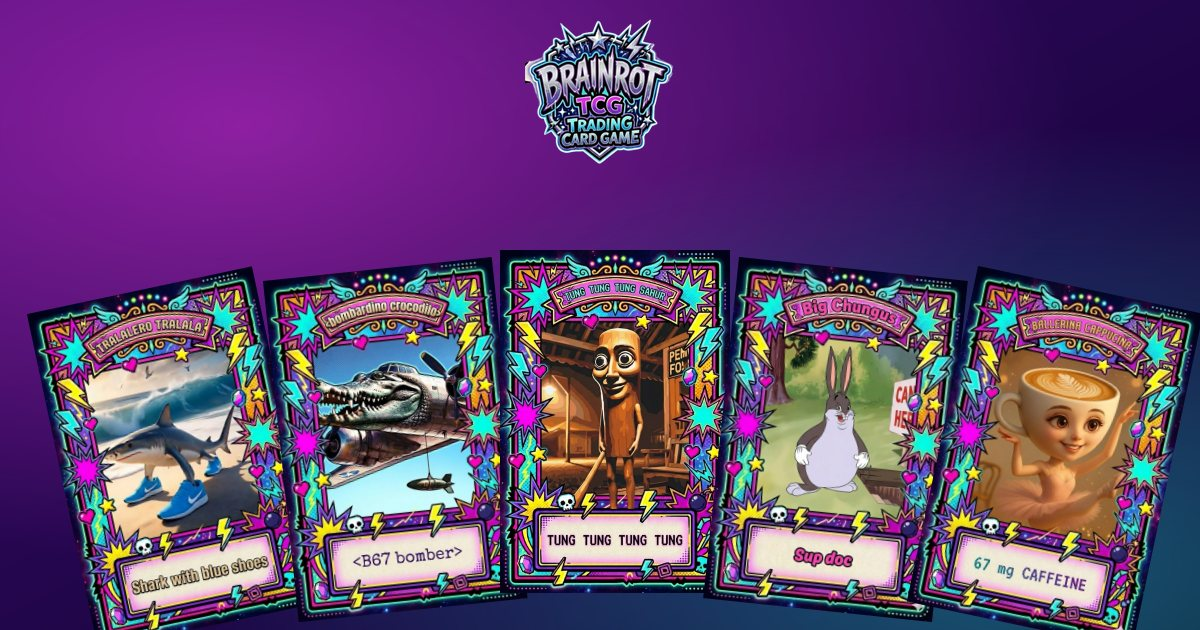
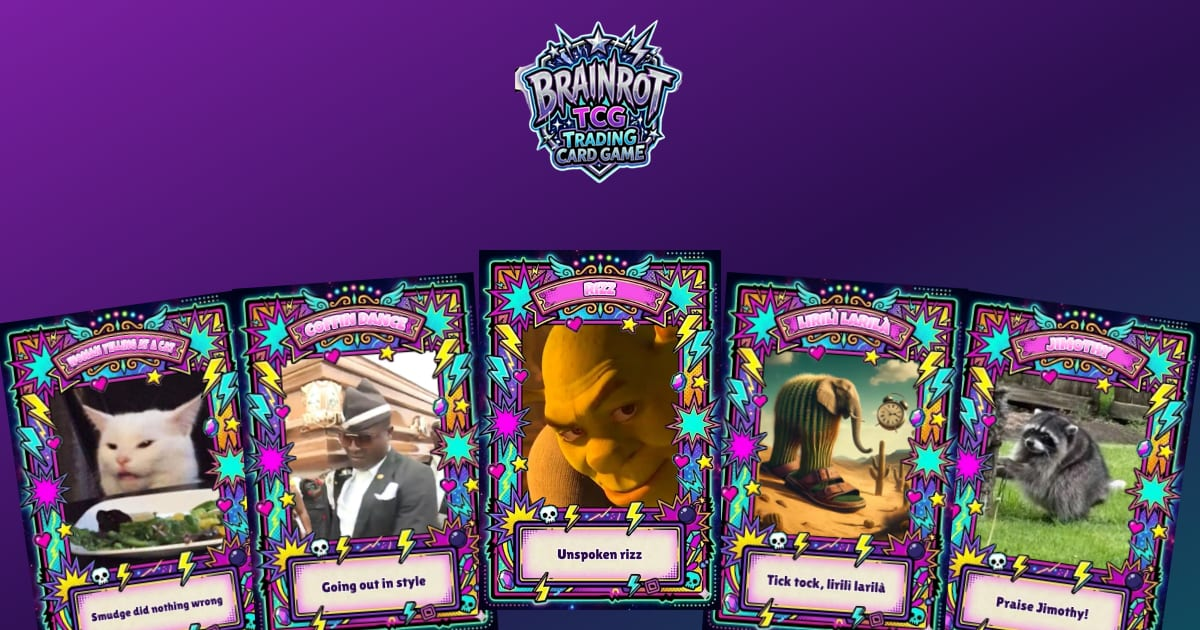
Link preview shows the newest sets; docs cover real images and archiving
public/og-image.jpg showed Genesis cards (including Tung Tung Tung
Sahur). It's now built by `npm run og-image` from the Brainrot cards of
the five newest openable sets, so archived sets never appear in it.

Docs and the new-set skill still told contributors to draw parodies of
person-memes, which contradicted the real-images-only rule. They now say
every card is the real meme, and list when to skip one. ADDING_A_SET.md
explains archiving a set, and the README lists the current eras.

Claude-Session: https://claude.ai/code/session_019EguSi8fJWokM3LRyjoEkU

diff --git a/scripts/og-image.ts b/scripts/og-image.ts
@@ -1,0 +1,63 @@
+/**
+ * Builds public/og-image.jpg, the 1200x630 link preview: the logo over a fan of the
+ * Brainrot-rarity cards from the five newest openable sets, so it never shows archived cards.
+ *
+ *   npx tsx scripts/og-image.ts
+ */
+import { fileURLToPath } from 'node:url';
+import sharp, { type OverlayOptions } from 'sharp';
+import { isOpenable, SETS } from '../src/content/sets/index.ts';
+
+const ROOT = fileURLToPath(new URL('../', import.meta.url));
+const W = 1200;
+const H = 630;
+const CARD_H = 360;
+const CARD_W = Math.round((CARD_H * 687) / 1024);
+
+const cards = SETS.filter(isOpenable)
+  .slice(-5)
+  .map((set) => ({ set, card: set.cards.find((c) => c.rarity === 'BRAINROT') ?? set.cards[set.cards.length - 1] }));
+// Fan layout, outermost first so the centre card ends up on top.
+const SLOTS = [
+  { dx: -460, dy: 290, angle: -8 },
+  { dx: 460, dy: 290, angle: 8 },
+  { dx: -235, dy: 272, angle: -4 },
+  { dx: 235, dy: 272, angle: 4 },
+  { dx: 0, dy: 250, angle: 0 },
+];
+const order = [0, 4, 1, 3, 2];
+
+const background = Buffer.from(
+  `<svg xmlns="http://www.w3.org/2000/svg" width="${W}" height="${H}">
+    <defs><linearGradient id="g" x1="0" y1="0" x2="1" y2="1">
+      <stop offset="0" stop-color="#7a1fa2"/><stop offset="0.55" stop-color="#2a0f4f"/><stop offset="1" stop-color="#0f4a5c"/>
+    </linearGradient></defs>
+    <rect width="100%" height="100%" fill="url(#g)"/>
+  </svg>`,
+);
+
+const layers: OverlayOptions[] = [];
+for (const [i, slot] of SLOTS.entries()) {
+  const entry = cards[order[i]];
+  if (!entry) continue;
+  const card = await sharp(`${ROOT}src/content/sets/${entry.set.id}/cards/${entry.card.id}.webp`)
+    .resize(CARD_W, CARD_H)
+    .rotate(slot.angle, { background: { r: 0, g: 0, b: 0, alpha: 0 } })
+    .png()
+    .toBuffer({ resolveWithObject: true });
+  const left = Math.round(W / 2 + slot.dx - card.info.width / 2);
+  const top = Math.round(slot.dy);
+  // Crop anything that falls off the canvas (sharp refuses overlays bigger than the base).
+  const cropLeft = Math.max(0, -left);
+  const cropRight = Math.max(0, left + card.info.width - W);
+  const visible = await sharp(card.data)
+    .extract({ left: cropLeft, top: 0, width: card.info.width - cropLeft - cropRight, height: Math.min(card.info.height, H - top) })
+    .toBuffer();
+  layers.push({ input: visible, left: left + cropLeft, top });
+}
+const logo = await sharp(`${ROOT}src/assets/images/logo.png`).resize(170, 170).toBuffer();
+layers.push({ input: logo, left: Math.round(W / 2 - 85), top: 18 });
+
+const out = `${ROOT}public/og-image.jpg`;
+await sharp(background).composite(layers).jpeg({ quality: 82, mozjpeg: true }).toFile(out);
+console.log(`wrote ${out}: ${cards.map((c) => `${c.set.id}/${c.card.id}`).join(', ')}`);

diff --git a/docs/ADDING_A_SET.md b/docs/ADDING_A_SET.md
@@ -7,10 +7,11 @@ A set is data: a `set.json` plus art. No code changes are needed apart from one 
 12 cards is a good size: 4 Common, 3 Uncommon, 2 Rare, 1 Epic, 1 Legendary, 1 Brainrot. The
 rarest slot goes to the most iconic or funniest meme of the era.
 
-Rules (see also `docs/ART_STYLE.md`):
-- **No real, identifiable people.** Person-memes become objects, animals or silhouettes.
-- **Copyrighted characters become parodies** with a riffed name and original art.
-- **No hate-associated or tragedy memes.** Keep it PG-13 and readable for a global audience.
+Rules (see "Real images only" in `docs/ART_STYLE.md`):
+- **Every card is a real meme with its real name and real image.** No parodies or lookalikes.
+- **Skip memes you can't show for real:** the owner enforces takedowns, the only images centre on a
+  private individual or a minor, or it's NSFW, gore or hate-associated. Pick another meme from the era.
+- Public figures in their meme moment, animals, objects, and film, TV, game or AI-character stills are fine.
 
 ## 2. Write `src/content/sets/<set-id>/set.json`
 
@@ -65,7 +66,15 @@ npx tsx scripts/cards/preview.ts my-set /tmp/my-set.png
    npm run check:sets -- --update   # locks my-set@1
    npm run check
    ```
-3. Commit `set.json`, `art/`, `cards/`, `PROMPTS.md` and `sets.lock.json`, then open a PR.
+3. Commit `set.json`, `art/`, `cards/`, `CREDITS.md` and `sets.lock.json`, then open a PR.
+4. Optionally run `npm run og-image` so link previews show the newest sets.
+
+## Archiving a set
+
+If a set can't stay on sale (say a rights holder starts enforcing), add `"archivedAt": "YYYY-MM-DD"`
+to its `set.json`. Nobody can open new packs from it, and its cards stop counting toward completion
+achievements. It stays in the registry, so every old pull link and Hall of Fame entry still verifies,
+and players keep the cards they own (marked Archived in their collection). Genesis is archived this way.
 
 ## Changing a released set
 

diff --git a/.claude/skills/new-set/SKILL.md b/.claude/skills/new-set/SKILL.md
@@ -1,6 +1,6 @@
 ---
 name: new-set
-description: Research current meme trends and draft a new Brainrot TCG card set end to end (card list, set.json, SVG placeholder art, Gemini prompt sheet, previews), ready for a draft PR. Use when asked to add, draft or update a card set, era, or monthly "Right Now" drop.
+description: Research current meme trends and draft a new Brainrot TCG card set end to end (card list, set.json, real meme images with credits, previews), ready for a draft PR. Use when asked to add, draft or update a card set, era, or monthly "Right Now" drop.
 ---
 
 # Drafting a new Brainrot TCG set
@@ -21,9 +21,9 @@ Read `docs/ADDING_A_SET.md` and `docs/ART_STYLE.md` first; they are the source o
 12 cards: 4 COMMON, 3 UNCOMMON, 2 RARE, 1 EPIC, 1 LEGENDARY, 1 BRAINROT. Names max 22 chars,
 captions max ~26 chars and genuinely funny, flavor max 90 chars, plus an `art` brief.
 
-Hard rules: no identifiable real people (turn person-memes into objects, animals or faceless
-silhouettes), copyrighted characters only as renamed parodies with original art, no
-hate-associated or tragedy memes, PG-13. Flag anything risky in the PR description.
+Hard rules: every card is the real meme with its real name. Skip any meme whose owner enforces
+takedowns, whose only images centre on a private individual or a minor, or that is NSFW, gore or
+hate-associated, and pick another from the same era. PG-13. Flag anything risky in the PR description.
 
 ## 3. Files
 

diff --git a/README.md b/README.md
@@ -41,7 +41,7 @@ We would love to expand the card selection to include more brainrot characters a
 
 ## Features
 
-- **Timeline packs** - Each meme era is its own set (Genesis, Web Ancients, Vine & Dank, ...). Pick an era and open its packs
+- **Timeline packs** - Each meme era is its own set, from Web Ancients (2007–2012) and Vine & Dank to Lockdown Lore, Gen Alpha Uprising, Italian Brainrot and Right Now. Every card shows the real meme. The original hackathon set, Genesis, is archived: its pulls still verify
 - **Verifiable pulls** - Every pack is derived from a proof-of-work ticket tied to your player key, so pulls can't be faked or edited, with no server
 - **Show it off** - Share any pull as a link that anyone can verify, copy a Wordle-style brag line, or save a 9:16 poster with a QR code
 - **Global Hall of Fame** - Submit a Full House or better; GitHub Actions verifies it and the page re-checks every entry on your device
@@ -76,6 +76,7 @@ npm run dev
 | `npm run cards` | build card images into `src/content/sets/<set>/cards/` |
 | `npm run prompts` | write free Gemini-app prompt sheets for each set's art |
 | `npm run check:sets -- --update` | lock a new set version |
+| `npm run og-image` | rebuild the link preview image from the newest sets |
 
 ## Adding cards and sets
 

diff --git a/docs/ART_STYLE.md b/docs/ART_STYLE.md
@@ -73,10 +73,11 @@ API has no free tier for images; at about $0.03 per image it's an option for bul
 - **Shape:** portrait, about 6:7 (the art window is 444×519 px). Anything else is cover-cropped.
 - **Edges:** frame decorations overlap the window's edges (a heart and star at the top, starbursts at
   the sides), so keep faces and key props away from the outer ~30 px.
-- **No text:** no letters, numbers, logos or brand marks.
-- **No real people:** person-memes become objects, animals or faceless silhouettes. Copyrighted
-  characters become original parody designs. Team self-portraits (like Genesis's Buh67) need the
-  person's OK.
+- **Text:** crop out caption text the frame already supplies. Text that is part of the meme itself
+  (a road sign, a map label) can stay.
+- **People:** public figures in their meme moment are fine. Crop out bystanders where you can. Skip
+  memes whose only images centre on a private individual or a minor. Team self-portraits (like
+  Genesis's Buh67) need the person's OK.
 - **Keep it PG-13:** no hate symbols, gore or sexual content.
 
 ## SVG placeholders

diff --git a/docs/ARCHITECTURE.md b/docs/ARCHITECTURE.md
@@ -19,7 +19,7 @@ src/content/       Data. Adding content never needs code changes.
   sets/<set>/set.json  cards (id, name, rarity, caption, flavor, art brief), odds, holo odds
   sets/<set>/art/      source art (real images, full cards, or SVG placeholders)
   sets/<set>/cards/    built card images (npm run cards); committed
-  sets/index.ts        the registry: every version of every set (old versions stay for old proofs)
+  sets/index.ts        the registry: every version of every set (old versions and archived sets stay for old proofs)
   sets.lock.json       hash of each released set@version (npm run check:sets)
 
 src/game/          Browser glue around the engine.
